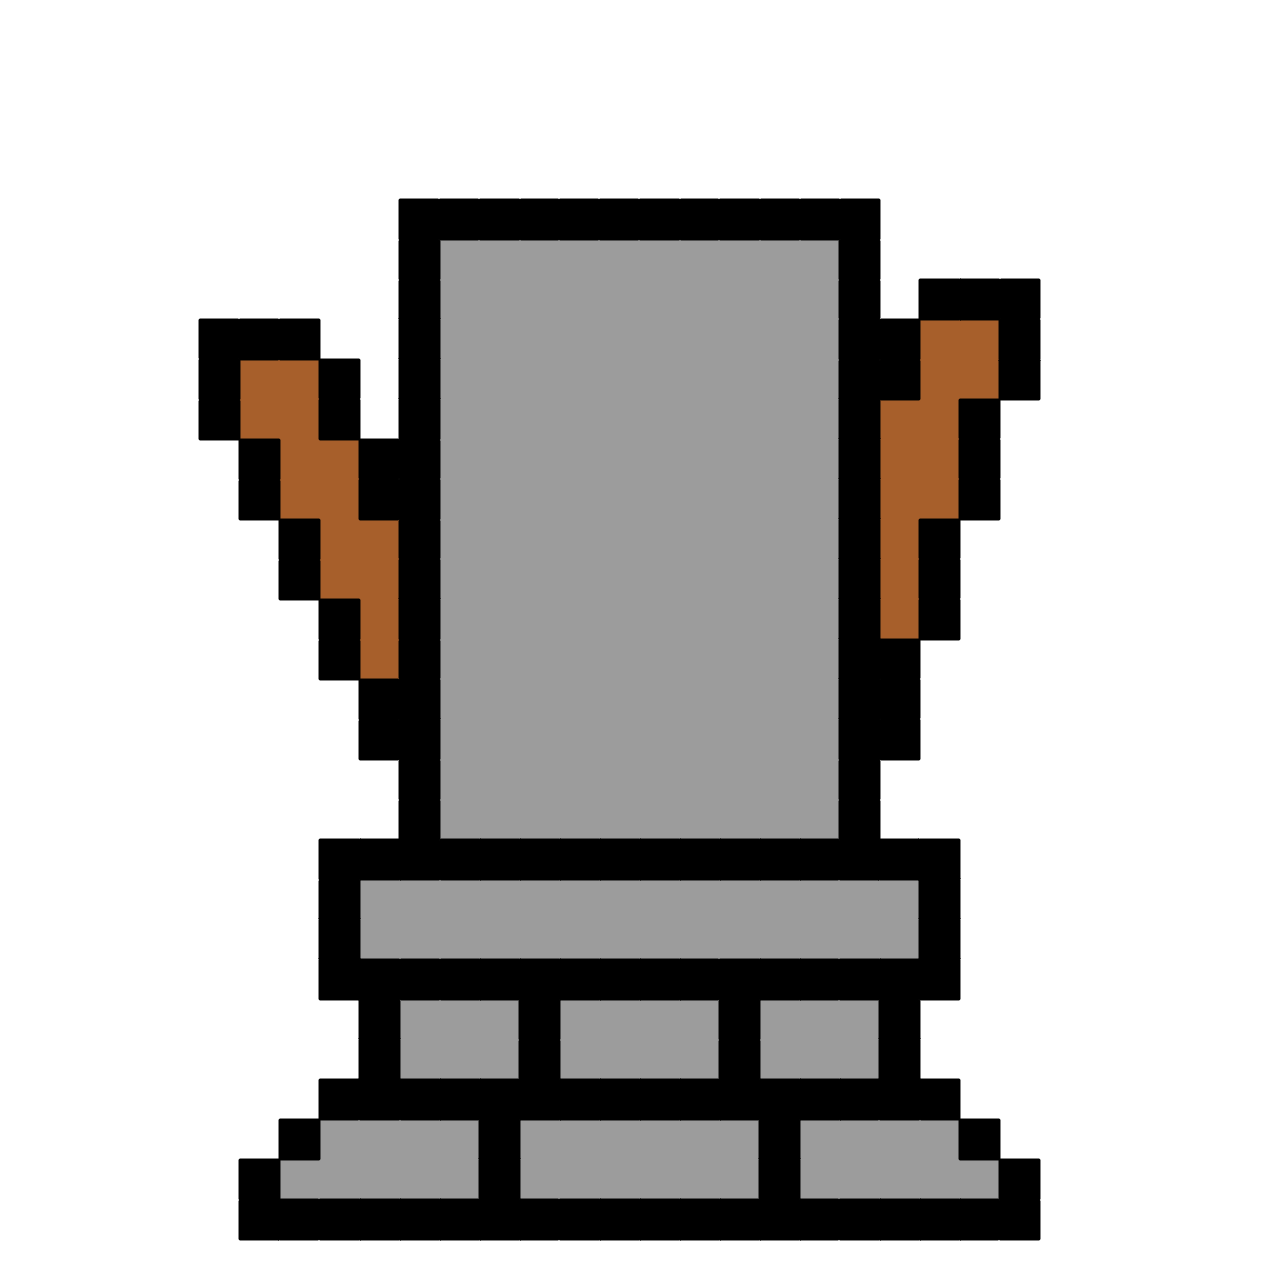
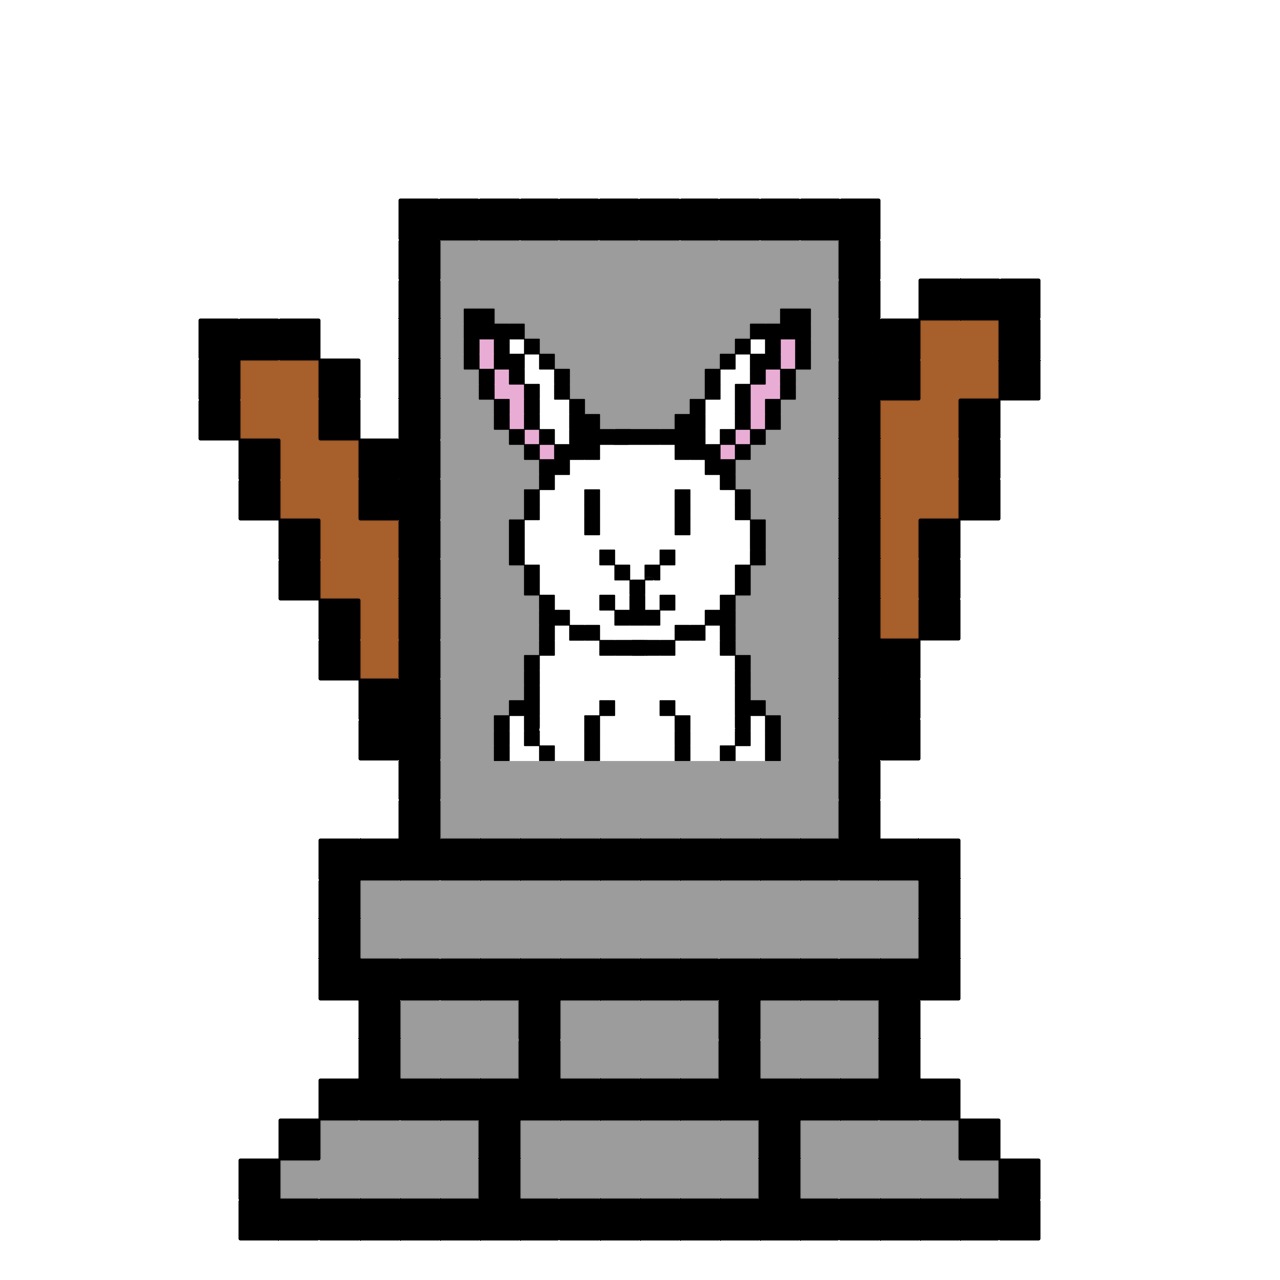
もう一回遊べるように

Changed region(s): [[0.3438, 0.2188, 0.6562, 0.5938]]

diff --git a/game.js b/game.js
@@ -1,4 +1,7 @@
 
+
+
+
 const objectSize =32;// 1マスの正方形の幅
 const blank =320;//マップの描画位置調整
 let scene=0; //画面遷移　タイトル0 ゲーム1
@@ -8,7 +11,7 @@ let score=0;//スコア
 let moveCount =16;//1マスの移動にかかるカウント数(moveCount * キャラのスピード)
 //canvasの設定
 let canvas = document.getElementById( 'canvas' );
-canvas.width = 1088;    //canvasの横幅
+canvas.width = 1080;    //canvasの横幅
 canvas.height = 640;    //canvasの縦幅
 
 //コンテキストを取得
@@ -17,6 +20,7 @@ let font = new FontFace('美咲ゴシック', 'url(fonts/misaki_gothic_2nd.ttf)'
 
 let routes = [];
 let startTime ;
+let r = Math.floor(Math.random()*5);
 
 //マップのデータ生成
 let mapImg = new Image();
@@ -64,6 +68,12 @@ let carrot = new Object();//ニンジンのオブジェクト生成
 carrot.img = new Image();
 carrot.img.src ='images/itemCarrot.png';
 carrot.count =0;
+
+let candy = new Object();
+candy.img = new Image();
+candy.img.src ='images/itemCandy.png';
+candy.count =0;
+
 
 let rabbit = new Object();//うさぎのオブジェクト生成
 
@@ -224,17 +234,14 @@ class foxClass { //きつねのクラス生成
             if(this.chaseCount==0){
             
                this.moveI =0;
-               //alert(fx2+" "+fy2+" "+rx+" "+ry);
                 bfs(fx2,fy2,rx,ry);
                 this.chaseCount = Math.floor(Math.random()*3+3);
-                //alert("a");
                 for(let i=0;i<=5;i++){
                     this.moveDirection2[i]=-1;
                     //alert(this.moveDirection2[i]);
                 }
                 let x;
                 let y;
-               // alert(this.chaseCount);
                 for(let i=0;i<=this.chaseCount;i++){
                     
                     if(i==0) {
@@ -246,8 +253,6 @@ class foxClass { //きつねのクラス生成
                         y =routes[i-1].y;
 
                     } 
-
-                //alert(x+" "+routes[i].x);
                 if(x-routes[i].x==1){
                     this.moveDirection2[i]=0;
 
@@ -261,8 +266,6 @@ class foxClass { //きつねのクラス生成
                 if(y-routes[i].y==-1){
                     this.moveDirection2[i]=3;
                 }
-                //alert(this.moveDirection2[i]);
-               // alert(this.moveDirection2[i]);
                 
             }
 
@@ -270,11 +273,8 @@ class foxClass { //きつねのクラス生成
         }
         this.chaseCount--;
         //try{
-                //alert(this.moveDirection2[this.moveI]);
                 fx2 = (this.x/32)-(blank/32);
                 fy2 = this.y/32;
-                //alert(map[fy2][fx2]);
-                //alert(this.moveDirection2[this.moveI]);
                 if(this.moveDirection2[this.moveI]==0){//左
                     if(map[fy2][fx2-1] ===0){
                         this.moveReset();
@@ -296,10 +296,7 @@ class foxClass { //きつねのクラス生成
                         this.moveCount2=0;
                     }
                 }else if(this.moveDirection2[this.moveI] ==2){//上 
-                    //alert(map[fx2][fy2-1]);
-                    //alert("a");
                     if(map[fy2-1][fx2] ===0){
-                        //alert("いける");
                         this.moveReset();
                         this.up=true;    
                     }else {
@@ -538,24 +535,24 @@ function drawTitle(){//タイトル画面
 
         ctx.font = '72px 美咲ゴシック'; // 使用するフォントを指定
         ctx.fillStyle = '#E0712C';
-        ctx.fillText('GRASSRUNNER', 500, 160); // Canvas上にテキストを描画
+        ctx.fillText('GRASSCORRIDOR', 480, 160); // Canvas上にテキストを描画
 
         ctx.drawImage( titleRabbit, 0, 0, 1280, 1280, 555, 200, 300, 300);
     });
        
 
 }
-let r = Math.floor(Math.random()*5);
+
 function drawGame(){
     
     rabbitMove();//うさぎを移動する関数を呼び出す
     yellowFox.move();
     grayFox.move2();   
     whiteFox.move();
-    if(redFox.moveCount==16 && redFox.moveCount2==16){     
-         r = Math.floor(Math.random()*2);
+    if(redFox.moveCount==16 && redFox.moveCount2==16){
+         r = Math.floor(Math.random()*3);
     }
-    if(r==0){
+    if(r==0 || r==1){
         redFox.move2();
     }
     else{
@@ -696,25 +693,25 @@ function keydownfunc( event ) {
 
     let key_code = event.keyCode;
 
-    if( key_code === 37 ){//左キーが押されたとき、key.leftをtrueにする
+    if( key_code === 37 || key_code ===65){//左キーが押されたとき、key.leftをtrueにする
         key.left  = true;
         key.up    = false;
         key.down  = false;
         key.right = false;
     } 		
-    if( key_code === 38 ){//上キー
+    if( key_code === 38 || key_code ===87){//上キー
         key.left  = false;
         key.up    = true;
         key.down  = false;
         key.right = false;
     } 		
-    if( key_code === 39 ){//右キー
+    if( key_code === 39 || key_code ===68){//右キー
         key.left  = false;
         key.up    = false;
         key.down  = false;
         key.right = true;
     } 	
-    if( key_code === 40 ){//下キー
+    if( key_code === 40 || key_code ===83){//下キー
         key.left  = false;
         key.up    = false;
         key.down  = true;
@@ -726,10 +723,10 @@ function keydownfunc( event ) {
         startTime = performance.now();
         scene=1;
     } 
-    //if( scene==2 && key_code === 32 ){//スペースキーで画面遷移
-    //   reset();
-    //    scene=0;
-    //} 
+    if( scene==2 && key_code === 32 ){//スペースキーで画面遷移
+        reset();
+        scene=0;
+    } 
 }
 
 function rabbitMove(){//うさぎを移動する関数
@@ -878,16 +875,16 @@ function objectCollider(y,x){
 
 function enemyCollider(){//敵との衝突判定
     
-    if(rabbit.x<=yellowFox.x+31 && rabbit.x+31>=yellowFox.x && rabbit.y<=yellowFox.y+31 &&rabbit.y+31>=yellowFox.y){
+    if(rabbit.x<=yellowFox.x+objectSize-1 && rabbit.x+objectSize-1>=yellowFox.x && rabbit.y<=yellowFox.y+objectSize-1 &&rabbit.y+objectSize-1>=yellowFox.y){
         scene=2;
     }
-    if(rabbit.x<=grayFox.x+31 && rabbit.x+31>=grayFox.x && rabbit.y<=grayFox.y+31 &&rabbit.y+31>=grayFox.y){
+    if(rabbit.x<=grayFox.x+objectSize-1 && rabbit.x+objectSize-1>=grayFox.x && rabbit.y<=grayFox.y+objectSize-1 &&rabbit.y+objectSize-1>=grayFox.y){
         scene=2;
     }
-    if(rabbit.x<=whiteFox.x+31 && rabbit.x+31>=whiteFox.x && rabbit.y<=whiteFox.y+31 &&rabbit.y+31>=whiteFox.y){
+    if(rabbit.x<=whiteFox.x+objectSize-1 && rabbit.x+objectSize-1>=whiteFox.x && rabbit.y<=whiteFox.y+objectSize-1 &&rabbit.y+objectSize-1>=whiteFox.y){
         scene=2;
     }
-    if(rabbit.x<=redFox.x+31 && rabbit.x+31>=redFox.x && rabbit.y<=redFox.y+31 &&rabbit.y+31>=redFox.y){
+    if(rabbit.x<=redFox.x+objectSize-1 && rabbit.x+objectSize-1>=redFox.x && rabbit.y<=redFox.y+objectSize-1 &&rabbit.y+objectSize-1>=redFox.y){
         scene=2;
     }
 
@@ -903,6 +900,9 @@ function getScore(p){
 
 
 
+
+
+
 const INF = 1000000000;
 const dx = [-1, 1, 0, 0];
 const dy = [0, 0, -1, 1];
@@ -911,10 +911,8 @@ const height = 20;
  
 
 function bfs(sx, sy, gx, gy) {
-    //alert(gx+" "+gy);
-   
-    //const prev = [];
-    const dist=[];
+
+    const dist=[];//移動距離を格納する変数のしょきせ
     for(let y =0;y<height;y++){
         dist[y] =[];
 
@@ -925,7 +923,7 @@ function bfs(sx, sy, gx, gy) {
     dist[sy][sx] = 0;
   
     const queue = [{ x: sx, y: sy }];
-    while (queue.length > 0) {
+    while (queue.length > 0) {//調べられる要素の数だけ調べる
         const cur = queue.shift();
 
 
@@ -936,13 +934,13 @@ function bfs(sx, sy, gx, gy) {
             let nx = cur.x + dx[i];
             let ny = cur.y + dy[i];
       
-            if (nx < 0 || nx >= width || ny < 0 || ny >= height) {//alert("範囲外");
+            if (nx < 0 || nx >= width || ny < 0 || ny >= height) {//範囲外;
                 continue;
             }
-            if (map[ny][nx] === 1) {//alert("壁");
+            if (map[ny][nx] === 1) {//壁;
                 continue;
             }
-            if (dist[ny][nx] !== INF) {//alert("もう見た");
+            if (dist[ny][nx] !== INF) {//もう見た;
                 continue;
             }
             
@@ -956,21 +954,18 @@ function bfs(sx, sy, gx, gy) {
     let cy=gy;
     while(dist[cy][cx]!=0){
         for(let i=0;i<4;i++){
-            //alert (cx+" "+cy);
             const px = cx + dx[i];
             const py = cy + dy[i];
-            //alert (px+" "+py);
-            if (px < 0 || px >= width || py < 0 || py >= height) {//alert("範囲外");
+            if (px < 0 || px >= width || py < 0 || py >= height) {//範囲外;
                 continue;
             }
-            if (map[py][px] === 1) {//alert("壁");
+            if (map[py][px] === 1) {//壁
                 continue;
             }
-            if (dist[py][px] === INF) {//alert("見なくていい");
+            if (dist[py][px] === INF) {//もう見なくていい
                 continue;
             }
             if(dist[py][px]==dist[cy][cx]-1){
-               // alert("近い");
                 routes.unshift({ x: cx, y: cy });
                 cx=px;
                 cy=py;
@@ -987,4 +982,123 @@ function bfs(sx, sy, gx, gy) {
  
 }
 
-context.rotate( 50 * Math.PI / 180 ) ;
+
+
+
+
+
+
+
+
+
+
+
+
+function reset(){
+    score=0;
+    moveCount =16;
+    routes = [];
+    key.up = false;
+    key.down = false;
+    key.right = false;
+    key.left = false;   
+    carrot.count =0;
+    candy.count =0;
+    rabbit.img = rabbit.leftImg;
+    rabbit.x=blank +32*9;
+    rabbit.y=blank +32*2;   
+    rabbit.moveDirection=2;//0左 1右 2上 3下
+    rabbit.left  =false;
+    rabbit.right =false;
+    rabbit.up    =false;
+    rabbit.down  =false;
+    rabbit.speed =2;    
+
+
+    redFox.moveReset();
+    redFox.x=enemyPositionX;
+    redFox.y=enemyPositionY-objectSize;
+    redFox.speed=2;
+    redFox.left=false;
+    redFox.right=false;
+    redFox.up=false;
+    redFox.down=false;
+    redFox.moveCount = objectSize/redFox.speed;
+    redFox.moveCount2 = objectSize/redFox.speed;
+    redFox.moveI =0;
+
+    grayFox.moveReset();
+    grayFox.x=enemyPositionX+objectSize;
+    grayFox.y=enemyPositionY;
+    grayFox.speed=2;
+    grayFox.left=false;
+    grayFox.right=false;
+    grayFox.up=false;
+    grayFox.down=false;
+    grayFox.moveCount = objectSize/grayFox.speed;
+    grayFox.moveCount2 = objectSize/grayFox.speed;
+    grayFox.moveI =0;
+
+    whiteFox.moveReset();
+    whiteFox.x=enemyPositionX+objectSize;
+    whiteFox.y=enemyPositionY-objectSize;
+    whiteFox.speed=2;
+    whiteFox.left=false;
+    whiteFox.right=false;
+    whiteFox.up=false;
+    whiteFox.down=false;
+    whiteFox.moveCount = objectSize/ whiteFox.speed;
+    whiteFox.moveCount2 = objectSize/ whiteFox.speed;
+    whiteFox.moveI =0;
+
+    yellowFox.moveReset();
+    yellowFox.x=enemyPositionX;
+    yellowFox.y=enemyPositionY;
+    yellowFox.speed=2;
+    yellowFox.left=false;
+    yellowFox.right=false;
+    yellowFox.up=false;
+    yellowFox.down=false;
+    yellowFox.moveCount = objectSize/yellowFox.speed;
+    yellowFox.moveCount2 = objectSize/yellowFox.speed;
+    yellowFox.moveI =0;
+
+
+
+    for (let y=0; y<map.length; y++) {//ランダムオブジェクト（アイテム）生成
+        for (let x=0; x<map[y].length; x++) {
+            if(map[y][x]===0){
+                let item=Math.floor(Math.random()*150)
+                if(item==2){
+                    mapObjects[y][x]=CARROT;//ニンジン 
+                }
+                else mapObjects[y][x]=GRASS;//草
+            }else if(map[y][x]===1) mapObjects[y][x] =0;//壁にはオブジェクトを生成しない
+        }
+    }
+
+
+grassRepopCount = [//マップに草が復活するまでのカウント配列
+    [0, 0, 0, 0, 0, 0, 0, 0, 0, 0, 0, 0, 0, 0, 0, 0, 0, 0, 0, 0],
+	[0, 0, 0, 0, 0, 0, 0, 0, 0, 0, 0, 0, 0, 0, 0, 0, 0, 0, 0, 0],
+	[0, 0, 0, 0, 0, 0, 0, 0, 0, 0, 0, 0, 0, 0, 0, 0, 0, 0, 0, 0],
+	[0, 0, 0, 0, 0, 0, 0, 0, 0, 0, 0, 0, 0, 0, 0, 0, 0, 0, 0, 0],
+	[0, 0, 0, 0, 0, 0, 0, 0, 0, 0, 0, 0, 0, 0, 0, 0, 0, 0, 0, 0],
+	[0, 0, 0, 0, 0, 0, 0, 0, 0, 0, 0, 0, 0, 0, 0, 0, 0, 0, 0, 0],
+	[0, 0, 0, 0, 0, 0, 0, 0, 0, 0, 0, 0, 0, 0, 0, 0, 0, 0, 0, 0],
+	[0, 0, 0, 0, 0, 0, 0, 0, 0, 0, 0, 0, 0, 0, 0, 0, 0, 0, 0, 0],
+	[0, 0, 0, 0, 0, 0, 0, 0, 0, 0, 0, 0, 0, 0, 0, 0, 0, 0, 0, 0],
+	[0, 0, 0, 0, 0, 0, 0, 0, 0, 0, 0, 0, 0, 0, 0, 0, 0, 0, 0, 0],
+	[0, 0, 0, 0, 0, 0, 0, 0, 0, 0, 0, 0, 0, 0, 0, 0, 0, 0, 0, 0],
+	[0, 0, 0, 0, 0, 0, 0, 0, 0, 0, 0, 0, 0, 0, 0, 0, 0, 0, 0, 0],
+	[0, 0, 0, 0, 0, 0, 0, 0, 0, 0, 0, 0, 0, 0, 0, 0, 0, 0, 0, 0],
+	[0, 0, 0, 0, 0, 0, 0, 0, 0, 0, 0, 0, 0, 0, 0, 0, 0, 0, 0, 0],
+	[0, 0, 0, 0, 0, 0, 0, 0, 0, 0, 0, 0, 0, 0, 0, 0, 0, 0, 0, 0],
+	[0, 0, 0, 0, 0, 0, 0, 0, 0, 0, 0, 0, 0, 0, 0, 0, 0, 0, 0, 0],
+	[0, 0, 0, 0, 0, 0, 0, 0, 0, 0, 0, 0, 0, 0, 0, 0, 0, 0, 0, 0],
+	[0, 0, 0, 0, 0, 0, 0, 0, 0, 0, 0, 0, 0, 0, 0, 0, 0, 0, 0, 0],
+	[0, 0, 0, 0, 0, 0, 0, 0, 0, 0, 0, 0, 0, 0, 0, 0, 0, 0, 0, 0],
+	[0, 0, 0, 0, 0, 0, 0, 0, 0, 0, 0, 0, 0, 0, 0, 0, 0, 0, 0, 0]
+];
+
+}
